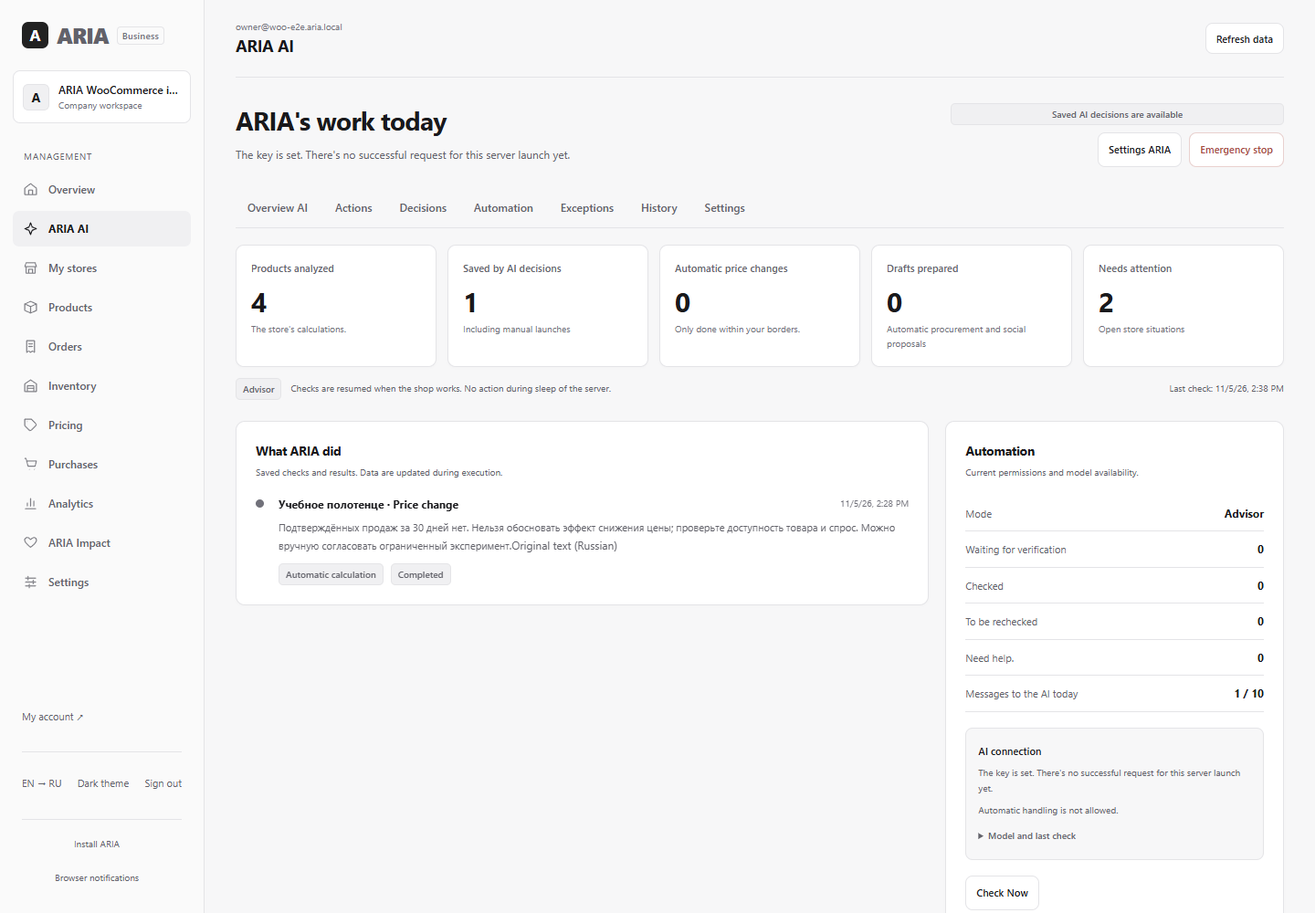
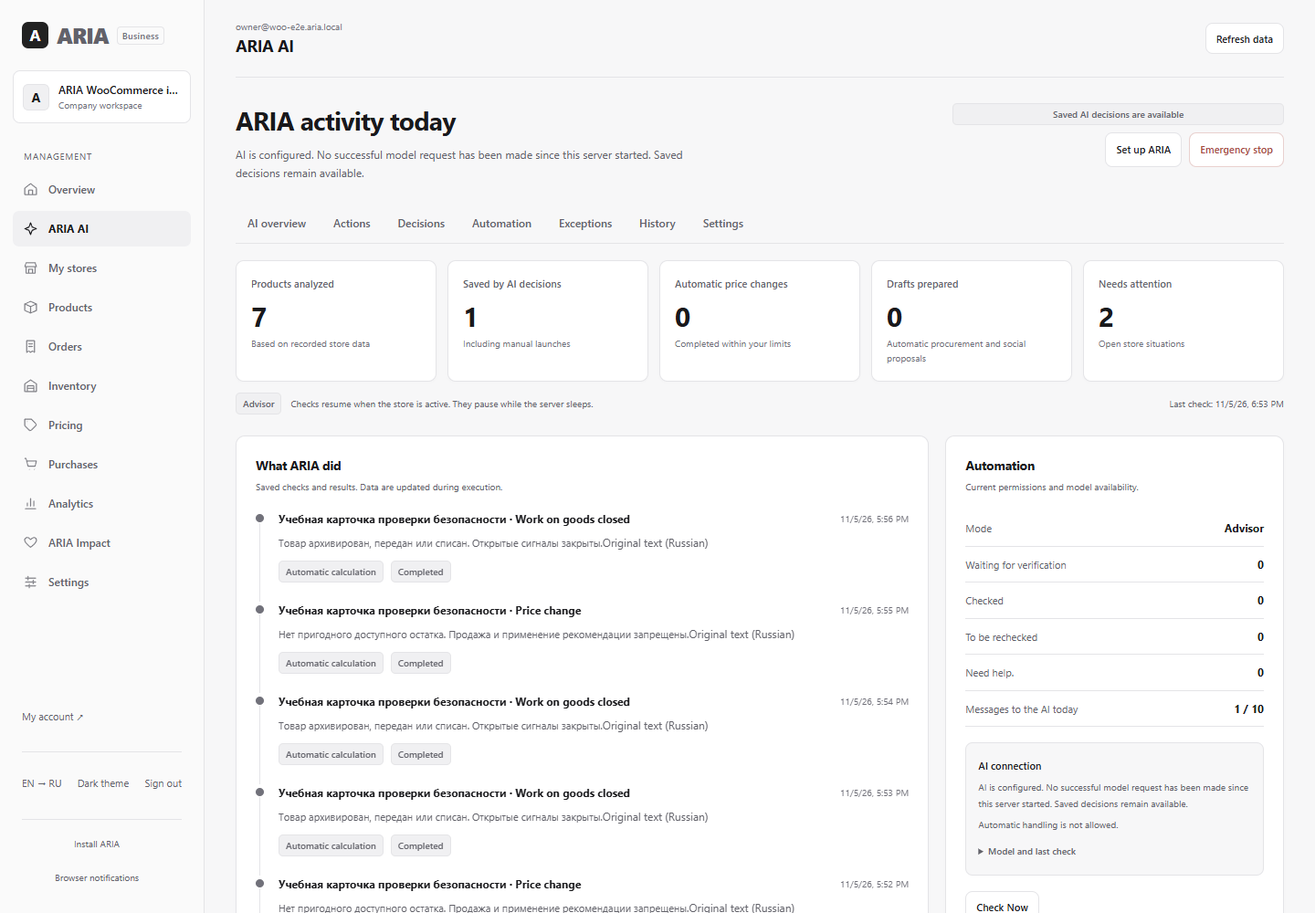
Compress public assets and wait for loaded workspace sections in UI audits

diff --git a/src/main/resources/static/js/control.js b/src/main/resources/static/js/control.js
@@ -61,7 +61,7 @@
         const result=await readData(keys);if(revision!==loadRevision)return false;
         Object.assign(data,result);keys.forEach(key=>loaded.add(key));
       }
-      render();$('control-message').hidden=true;return true;
+      await render();if(revision!==loadRevision)return false;$('control-message').hidden=true;return true;
     }catch(error){if(revision===loadRevision){notify(error.message,true);ariaCopy.setProperty($('control-content'),"innerHTML",empty(ariaCopy.text("text.889849aa616470")));}return false;}
     finally{if(revision===loadRevision)$('control-content').setAttribute('aria-busy','false');}
   }
@@ -130,7 +130,8 @@
   function settings(){return ariaCopy.template("template.e4d4769425491b",[[
     [ariaCopy.text("text.147938b74f32b5"),ariaCopy.text("text.171c782dda04ed"),'#policies'],[ariaCopy.text("text.568a809cc5fdcc"),ariaCopy.text("text.ded72c0e22a1ea"),'#manager'],[ariaCopy.text("text.fe230e6f5b7db1"),ariaCopy.text("text.17dcb327904ee8"),'#integrations'],[ariaCopy.text("text.ac5dad760e33c2"),ariaCopy.text("text.e8f9b4f71d8ba7"),'#audit'],[ariaCopy.text("text.fdc998d4e0ef8d"),ariaCopy.text("text.710fba5b52cc1a"),'/profile.html'],[ariaCopy.text("text.3fcc6a7a1f1566"),ariaCopy.text("text.c80c9967dfc5ab"),'/admin.html'],[ariaCopy.text("text.f0012086d52ed6"),ariaCopy.text("text.e2d90a6e2a9bd8"),'#feedback'],[ariaCopy.text("text.3c106d1b9d90e6"),ariaCopy.text("text.4a87b5c172ecfe"),'#guide']
   ].map(([title,note,url])=>`<a href="${url}"><h3>${title} ↗</h3><p>${note}</p></a>`).join('')]);}
-  function render(){
+  async function render(){
+    const section=tab;
     ariaCopy.setProperty($('control-title'),"textContent",tabs[tab]);
     $('control-refresh').hidden=['smart','socialPlans','stores'].includes(tab);
     const group=groups.find(([,keys])=>keys.includes(tab));
@@ -138,10 +139,10 @@
     const subnav=group?.[1].length>1?ariaCopy.template("template.e153deafaa0535",[group[1].map(key=>`<button type="button" data-action="tab" data-id="${key}" ${key===tab?'aria-current="page"':''}>${subLabels[key]||tabs[key]}</button>`).join('')]):'';
     ariaCopy.setProperty($('control-content'),"innerHTML",subnav+({workspace,stores,overview,manager,products,lots,movements,smart,competitors,pricing,suppliers,purchases,pos,integrations,orders,social,socialPlans,intelligence,audit,policies,feedback,guide,settings}[tab])()+(listTabs.has(tab)?pager():''));
     const ctx={request,notify,form,formField,show,markDirty:()=>dirty=true,clearDirty:()=>dirty=false};
-    if(tab==='workspace')ariaWorkspace.mount(ctx);
-    if(tab==='settings')ariaWorkspace.mountDemoCatalogue(ctx);
-    if(tab==='stores')ariaStores.mount(ctx);
-    if(tab==='pricing')loadPreview();if(tab==='movements')ariaOperations.ledger(ctx);if(tab==='integrations')ariaOperations.integrations(ctx);if(tab==='pos')ariaPos.mount(ctx);if(tab==='purchases')ariaPurchases.mount(ctx);if(tab==='manager')ariaManager.mount(ctx);if(tab==='smart')ariaSmartPricing.mount(ctx);if(tab==='competitors')ariaCompetitors.mount(ctx);if(tab==='socialPlans')ariaSocialProposals.mount(ctx);
+    if(section==='workspace')await ariaWorkspace.mount(ctx);
+    if(section==='settings')await ariaWorkspace.mountDemoCatalogue(ctx);
+    if(section==='stores')await ariaStores.mount(ctx);
+    if(section==='pricing')await loadPreview();if(section==='movements')await ariaOperations.ledger(ctx);if(section==='integrations')await ariaOperations.integrations(ctx);if(section==='pos')await ariaPos.mount(ctx);if(section==='purchases')await ariaPurchases.mount(ctx);if(section==='manager')await ariaManager.mount(ctx);if(section==='smart')await ariaSmartPricing.mount(ctx);if(section==='competitors')await ariaCompetitors.mount(ctx);if(section==='socialPlans')await ariaSocialProposals.mount(ctx);
   }
   function go(key,newFilter='',fromHistory=false){if(!Object.hasOwn(tabs,key)||!closeDialog())return;clearTimeout(searchTimer);++previewRevision;tab=key;search='';filter=newFilter||(key==='products'?'CURRENT':'');page=0;sort='newest';const target=new URL(location.href);if(key!=='smart')target.searchParams.delete('decision');target.hash=key;if(!fromHistory)history.pushState(null,'',target);else if(target.href!==location.href)history.replaceState(null,'',target);document.querySelector('.control-sidebar').classList.remove('saas-menu-open');$('workspace-menu').setAttribute('aria-expanded','false');load();}
   async function loadPreview(){const revision=++previewRevision;preview=null;$('pricing-result')?.querySelector('[data-action=discount-apply]')?.setAttribute('disabled','');const id=$('pricing-product')?.value,percent=Number($('pricing-percent')?.value);if(!id){if($('pricing-result'))ariaCopy.setProperty($('pricing-result'),"textContent",ariaCopy.text("text.68a7e4e60a985b"));return;}if(!Number.isInteger(percent)||percent<0||percent>90){if($('pricing-result'))ariaCopy.setProperty($('pricing-result'),"textContent",ariaCopy.text("text.fe25f5458b2bae"));return;}

diff --git a/docs/PLATFORM_BACKLOG_RU.md b/docs/PLATFORM_BACKLOG_RU.md
@@ -8,6 +8,8 @@
 - **P1 Длительная блокировка подключения при импорте — исправлено.** Сетевое чтение вынесено из транзакции в `StoreSyncFlow`; перед сохранением повторно проверяются версия подключения, ключи, состояние/срок задания и снимок каталога. Влияние: отключение и смена доступов не ждут внешнего HTTP. Риск данных: средний, закрыт проверками позднего ответа поверх новой цены и отменённого задания. Сложность M/L. Воспроизведение до исправления: `platform/evidence/import-lock-baseline.json`. Четыре PostgreSQL-регрессии используют управляемый HTTP; это не внешний E2E. Реальный повторный импорт установленного WooCommerce проверяется отдельно в `store-read-refresh.json`. В UI добавлено объяснение неприменённого ответа RU/EN и мобильные карточки истории на 360/390 px. Итог: 249 серверных тестов; отдельные доказательства `import-lock-fixed.json` и `store-read-refresh.json`.
 - **P2 Ошибки профиля — исправлено.** Загрузка заказов/избранного имеет пустые catch-блоки. Влияние: пользователь не понимает причину незагруженного раздела. Риск потери данных: низкий, но опасен повтор заказа наугад. Сложность S. Исправлено: RU/EN-сообщение и повтор GET без повторной отправки заказа; `platform/evidence/account-errors.json`. Также устранено искажение кавычек/обратного слеша в профиле и корзине.
 
+- **P2 Преждевременное завершение загрузки — исправлено.** Оболочка не ожидала асинхронные разделы; быстрый тест мог принять загрузочный экран за готовый. Влияние: доступность и достоверность UI-проверки. Риск данных: низкий; отдельно проверен поздний ответ при смене раздела. Сложность S. `platform/evidence/route-readiness-before.json` / `after.json`; полный аудит заново проверил 194 посещения с фактическими данными.
+
 ## Ближайшие продуктовые этапы
 
 - **P1 Самостоятельный onboarding компании.** Сейчас нужен оператор, отдельные процесс и БД. Влияние: предприниматель не проходит весь сценарий самостоятельно. Риск данных: высокий при смешивании привязок. Сложность L. Зависимости: безопасное создание владельца, подтверждение доступа, стратегия подготовки изолированной среды; нельзя представлять переименование бизнеса как регистрацию компании.
@@ -15,7 +17,7 @@
 - **P2 WooCommerce: атрибуты и изображения.** Импортируются ID, название, артикул, цена, остаток, варианты и заказы; структурированных атрибутов/изображений в StoreSnapshot ещё нет. Влияние: неполная внешняя карточка. Риск данных: средний — нельзя выдавать сведения магазина за проверку производителя. Сложность M. Зависимости: ограничение размера/схемы, безопасные URL и экранирование, повторный импорт и сохранение прежнего снимка.
 - **P2 Административный помощник.** Покупательский помощник существует; полноценного безопасного сервиса команд владельца пока нет. Влияние: ручной поиск по разделам. Риск данных: высокий при произвольных инструментах/SQL. Сложность M/L. Зависимости: фиксированные серверные операции, права, отдельные согласия на новые виды внешнего AI-контекста; источник ответа должен быть честно обозначен.
 - **P2 Характеристики категорий.** Редактор цвета/размера/массы завершён. Специализированные пищевые, технические и текстильные поля требуют источников и валидации. Влияние: качество карточки и сравнения. Риск данных: средний при выдумывании фактов. Сложность M. Зависимости: сохранять происхождение, неизвестные значения и защиту справочной проверки.
-- **P2 Производительность клиента.** Общий словарь около 347 КБ, прежний i18n около 92 КБ, оба загружаются на страницах. Влияние: слабые устройства/медленная сеть. Риск данных: низкий. Сложность S/M. Зависимости: измерить передаваемые байты; сохранить офлайн-экран, ключи RU/EN и исходные бизнес-тексты.
+- **P2 Производительность клиента — сжатие завершено.** Три скрипта передаются как 146 194 вместо 494 960 байт (−70,5%) в обеих учебных средах. Проверены точные распакованные байты, Vary, несжатый крупный закрытый JSON и защита API. Доказательство: `platform/evidence/static-transfer-after.json`. Словари пока общие; удаление старого i18n/разделение пакетов остаётся отдельной задачей. Влияние: слабые устройства/медленная сеть. Риск данных: низкий. Сложность оставшегося этапа M. Зависимости: сохранить PWA, ключи RU/EN и исходные бизнес-тексты.
 - **P2 Мобильные 360 px — проверено.** 23 раздела × RU/EN, 46 посещений без переполнения и ошибок (`localization/evidence/ui-audit-360.json`). Прежние проверки 390/768/1440 сохранены. Влияние: формы и таблицы на небольших телефонах. Риск данных: низкий. Сложность S. Новые формы проверять отдельно по мере изменений.
 
 ## Уже реализовано; не начинать заново

diff --git a/docs/platform/README_RU.md b/docs/platform/README_RU.md
@@ -1,0 +1,34 @@
+# Проверка платформы: продолжение после 2cb3d78
+
+Рабочая ветка — `codex/production-foundation`. Main, production Render, рабочая база и согласия компаний не менялись. Учебные процессы 8085/8087 и установленный WooCommerce 8449 изолированы; прежний 8084 сохранён.
+
+## Исправленные сценарии
+
+- HTML-инъекция в старой админке: безвредное воспроизведение до/после, экранирование названия/SKU/категории. Новые нулевые учебные карточки восстановлены и архивированы. Коммит `91a6f72`.
+- Кавычки/обратные слеши в профиле и корзине; явная ошибка чтения заказов и повтор GET без повторной отправки заказа. Проверены RU/EN.
+- Сетевой импорт больше не удерживает транзакцию и блокировку магазина. Отключение и смена ключей завершаются до ответа поставщика. Перед применением проверяются версия/доступы/задание и снимок каталога; более свежая цена сохраняется. Коммит `3f774ed`.
+- На телефоне история обновления показывает результат и причину в карточках. Подписи и подсказка прокрутки переведены; серверный статус неприменённого ответа имеет понятное объяснение.
+- Оболочка ждёт завершения загрузки раздела. Исправлено преждевременное `aria-busy=false`, которое позволяло быстрому аудиту снимать промежуточный экран. Устаревший ответ при переключении не заменяет новый раздел.
+- Включено HTTP-сжатие HTML/CSS/JS/SVG от 2 КБ; JSON API и бинарные файлы исключены. [Настройки Spring Boot](https://docs.spring.io/spring-boot/how-to/webserver.html#howto.webserver.enable-response-compression). Зависимости не обновлялись.
+
+## Доказательства
+
+`evidence/html-*.json`, `account-errors.json` — браузерные проверки исправлений. `import-lock-baseline.json` воспроизводит прежнюю блокировку; `import-lock-fixed.json` содержит четыре успешные PostgreSQL-регрессии с управляемым HTTP. Это проверки конкуренции сервера, не внешний WooCommerce E2E.
+
+`store-read-refresh.json` — реальный повторный импорт из установленного WordPress/WooCommerce: стабильные ID простого товара/вариаций/заказов, KZT, сверка текущих цен/остатков через WooCommerce GET, без внешнего PUT, новых AI-запросов и изменения разрешений. Сохранённое настоящее решение AI №6 — KEEP 1215 ₸. Состояние позднего ответа в браузере проверяется отдельно управляемым ответом; это явно указано в отчёте.
+
+`route-readiness-before.json` / `after.json` — задержан настоящий авторизованный GET Dashboard, проверены ожидание и быстрый переход на другой раздел RU/EN. Снимок before — диагностическое воспроизведение, не готовый Dashboard.
+
+`../localization/evidence/ui-audit*.json` — актуальные полные отчёты имеют `waitsForAsyncSections=true`: 138 посещений на 390/768/1440 px + 46 на 360 px + 10 основных экранов тёмной темы. Нет ошибок JS, горизонтального переполнения страницы или непереведённых системных текстов. Исходные бизнес-названия/объяснения исключаются явно.
+
+`static-transfer-after.json` — реальные байты двух учебных серверов в профилях postgres/free. Три общих скрипта: 494 960 → 146 194 байта, экономия 70,5%. Распакованные ответы совпадают с исходниками, проверен Vary; закрытый журнал API больше порога сжатия остаётся JSON без gzip, анонимный доступ закрыт, PNG повторно не сжимается. Это измерение трафика localhost, не обещание конкретного ускорения production.
+
+После изменения общей загрузки повторно проверено сохранение формы характеристик в двух существующих учебных карточках RU/EN: обязательное подтверждение, журнал, реальный конфликт двух сессий и сохранность цены/остатка/SKU. `../localization/evidence/product-attributes.json`, без AI-вызовов.
+
+Последний полный серверный прогон: **249 тестов**, без ошибок/падений/пропусков, новая PostgreSQL и Flyway V1–V32. Итоги — `../connected-commerce/evidence/java-tests.json`; прежние 245 тестов сохранены отдельно. Публичные учебные характеристики, цена, остаток и SKU пережили перезапуск JVM (`../localization/evidence/attributes-persistence.json`).
+
+## Повторить только затронутые проверки
+
+Из `backend`, с существующими локальными учебными конфигурациями: `scripts/test-postgres.ps1`, `node scripts/localization/check-copy.cjs`, `node scripts/woocommerce/read-refresh-e2e.cjs`, `node scripts/localization/route-readiness-e2e.cjs`, `node scripts/localization/static-transfer-e2e.cjs`. Браузеру нужен Playwright в `ARIA_PLAYWRIGHT_MODULE` и Edge. `ui-audit.cjs` поддерживает полный прогон, `--360` и `--dark`.
+
+Сценарии требуют именно описанных учебных сред. Не переносить их на production. `read-refresh-e2e.cjs` обновляет только локальные снимки; `static-transfer-e2e.cjs` читает данные и входит в аккаунт; новых запросов к OpenRouter нет. Нет магазина реального владельца, публичного staging и доказанного live-AUTOPILOT. Следующая работа и ограничения — [backlog](../PLATFORM_BACKLOG_RU.md).

diff --git a/docs/connected-commerce/NEXT_STEPS_RU.md b/docs/connected-commerce/NEXT_STEPS_RU.md
@@ -14,7 +14,7 @@
 
 ## Ближайшая работа
 
-Продолжение полного плана: [актуальный backlog платформы](../PLATFORM_BACKLOG_RU.md). Новая итерация исправила HTML-вывод старой админки, кавычки в профиле/корзине и скрытые ошибки чтения заказов. Воспроизведение до/после и проверка повторной загрузки — `../platform/evidence`. Дополнительно пройдены 46 посещений (23 раздела × RU/EN) при 360 px, без переполнения и ошибок. Длительная блокировка HTTP-импорта исправлена: короткие транзакции до/после чтения, проверки версии/доступов/задания и снимка каталога. Доказательства до/после — `import-lock-*.json`; реальный повторный импорт установленного WooCommerce — `store-read-refresh.json`. Отмена, смена ключей и новая подтверждённая цена не перезаписываются поздним ответом. Следующая независимая задача — уменьшить сетевую загрузку общих скриптов, затем продолжить приоритеты backlog.
+Продолжение полного плана: [актуальный backlog платформы](../PLATFORM_BACKLOG_RU.md). Новая итерация исправила HTML-вывод старой админки, кавычки в профиле/корзине и скрытые ошибки чтения заказов. Воспроизведение до/после и проверка повторной загрузки — `../platform/evidence`. Дополнительно пройдены 46 посещений (23 раздела × RU/EN) при 360 px, без переполнения и ошибок. Длительная блокировка HTTP-импорта исправлена: короткие транзакции до/после чтения, проверки версии/доступов/задания и снимка каталога. Доказательства до/после — `import-lock-*.json`; реальный повторный импорт установленного WooCommerce — `store-read-refresh.json`. Отмена, смена ключей и новая подтверждённая цена не перезаписываются поздним ответом. Сжатие общих скриптов завершено: −70,5% сетевых байтов без сжатия JSON API. Исправлено ожидание асинхронных разделов, полный UI-аудит пересоздан с готовыми данными (194 посещения). Текущие доказательства и команды — `../platform/README_RU.md`. Следующий этап — приоритеты backlog: самостоятельный onboarding/доступ сотрудников (с обоснованием безопасного provision отдельной компании), затем атрибуты и изображения внешнего каталога. Не начинать новую архитектуру без такого обоснования.
 
 1. RU/EN завершены для оболочки, 23 административных разделов и основных клиентских страниц. Явные ключи сохраняют исходные названия, характеристики и объяснения. Проверены формы, ошибки, 390/768/1440 px, тёмная тема, помощник, корзина и отдельная витрина 8087. Доказательства и поддержка словаря — `../localization/README_RU.md`. Не возвращать автоматический перевод DOM и не повторять успешные проверки без затронутых изменений.
 2. Карточки проверены на пищевом товаре, бытовом товаре и текстиле в RU/EN на 390/1440 px и отдельно в тёмной теме (`../localization/evidence/product-cards.json`). Добавлен редактор существующих полей ProductDetail: цвет, размер/упаковка, масса. Обязательны основание и подтверждение; проверяются значения, роль, архив и версия формы. Права AI не включаются. Цена/остаток/SKU сохраняются, справочные сведения не выдаются за проверенные после несовпадения упаковки, собственные фото сохраняются. Сквозной UI — `product-attributes.json`, перезапуск — `attributes-persistence.json` в той же папке. Следующий этап — специализированные характеристики категорий и источники для них, без выдуманных GTIN, состава, производителя и сроков. Не запускать повторно одноразовый перевод исходников: править актуальные файлы и обновлять только словарь.

diff --git a/docs/localization/README_RU.md b/docs/localization/README_RU.md
@@ -28,7 +28,7 @@
 
 ## Подтверждённые проверки
 
-`evidence/ui-audit.json`: 138 посещений — 23 раздела × RU/EN × 390/768/1440 px. `ui-audit-dark.json`: пять основных экранов тёмной темы на 390/1440 px. Проверяются ошибки JavaScript, переполнение и непереведённые системные подписи; исходные бизнес-данные исключены явно.
+`evidence/ui-audit.json`: 138 посещений — 23 раздела × RU/EN × 390/768/1440 px. `ui-audit-dark.json`: пять основных экранов тёмной темы на 390/1440 px. Проверяются ошибки JavaScript, переполнение и непереведённые системные подписи; исходные бизнес-данные исключены явно. Оболочка теперь ожидает асинхронные разделы, а тест дополнительно проверяет готовые элементы и отсутствие загрузочных заглушек. Полные отчёты пересозданы после этого исправления: 194 посещения с `waitsForAsyncSections=true`, включая 360 px и тёмную тему; прежний быстрый прогон не используется как доказательство готовности данных.
 
 `evidence/functional-e2e.json`: реальное учебное создание товара с Java SKU, точная сохранность описания, отмена смены языка в несохранённой форме, открытие сохранённого настоящего AI-решения, регистрация покупателя, корзина между вкладками без дублей, сумма, проверка адреса и удаление, английский поиск и сравнение по настоящему каталогу, отказ от написания кода, 44 клиентские страницы RU/EN на двух размерах и настоящий офлайн-переход. Заказ не отправлялся; согласия и разрешения не включались. Поиск помечен ENGINE: эта проверка не является внешним AI-запросом.
 
@@ -41,6 +41,8 @@
 Следующая завершённая итерация — `product-cards.json`: пищевой товар, бытовой товар и текстиль на двух языках и двух размерах, плюс тёмная мобильная карточка. Пустые таблицы скрыты; названия полей источников переведены, значения сохранены; сведения магазина помечены отдельно. Единица остатка берётся из товара, даты срока показаны с названием месяца. Чтение карточек не изменяет данные. Для части товаров по-прежнему нет разрешённых фотографий; нейтральная заглушка не содержит надписи на другом языке.
 
 `product-attributes.json`: редактор цвета, размера/упаковки и массы через настоящий интерфейс двух учебных сред. Проверены явное подтверждение, сохранение, журнал, мобильная форма и реальный конфликт двух сессий; цена/остаток/SKU не изменились. Значения специально учебные. `attributes-persistence.json` подтверждает сохранность при настоящем перезапуске JVM. Новые миграции для этого не понадобились. При несовпадении упаковки со справочником прежняя проверка и справочное фото не переиспользуются; собственные изображения владельца сохраняются.
+
+Сжатие ресурсов: три общих скрипта передаются как 146 КБ вместо 495 КБ (−70,5%); содержимое после распаковки совпадает. Крупный закрытый JSON, анонимный отказ и бинарные изображения проверены отдельно. Это измерения двух локальных учебных серверов. Все доказательства, ограничения и команды — [проверка платформы](../platform/README_RU.md).
 
 ## Поддержка переводов
 

diff --git a/docs/connected-commerce/OWNER_GUIDE_RU.md b/docs/connected-commerce/OWNER_GUIDE_RU.md
@@ -35,6 +35,12 @@
 
 Для уведомлений откройте настройки магазина → «Уведомления». Включите приём, перенесите адреса и единожды показанную подпись в WooCommerce. Для реального внешнего магазина у ARIA должен быть публичный HTTPS-адрес. При архивировании/отключении ARIA отзывает локальные адреса; также выключите старые webhooks на стороне WooCommerce.
 
+## Главная кабинета
+
+Главная страница проверенной учебной компании; показатели отражают её учебную базу, а не продажи реального магазина:
+
+![Главная кабинета ARIA](../localization/evidence/workspace-ru-1440.png)
+
 ## Характеристики собственного товара
 
 Откройте «Товары → Изменить → Характеристики товара». Если уже меняли название, цену или бренд в общей форме, сначала сохраните их: переход в характеристики предлагает отказаться от несохранённых правок.
